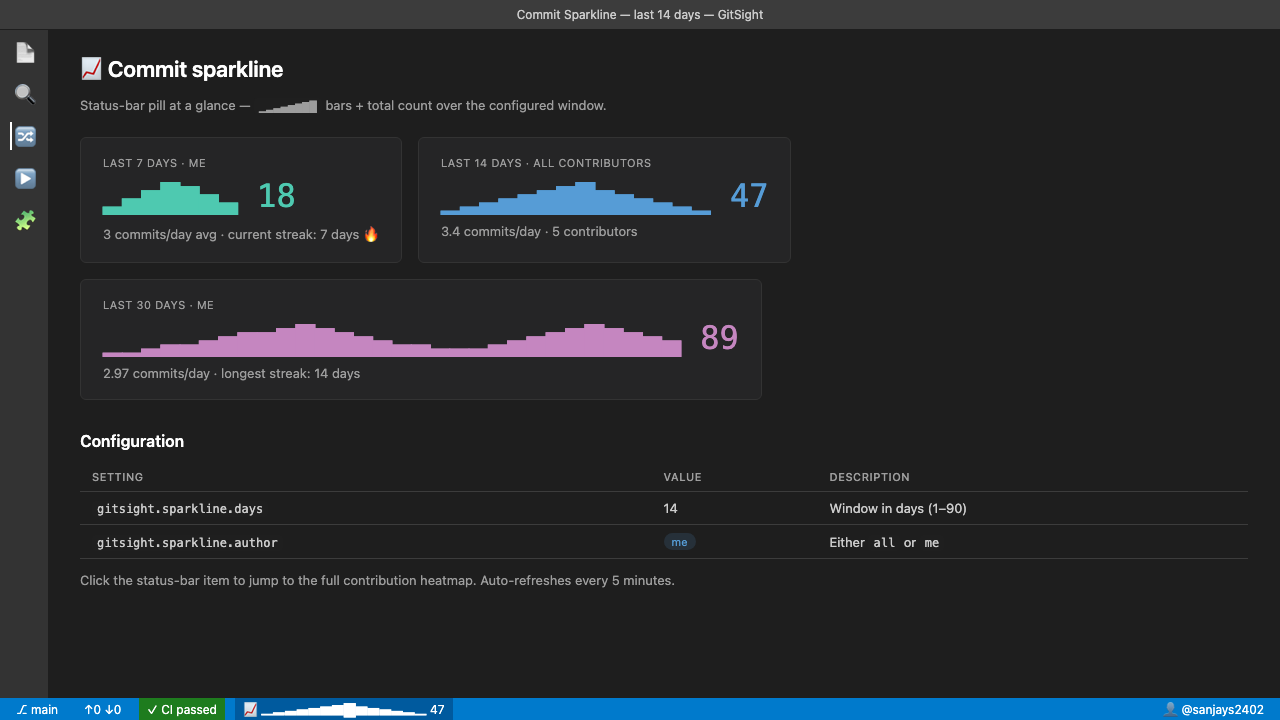
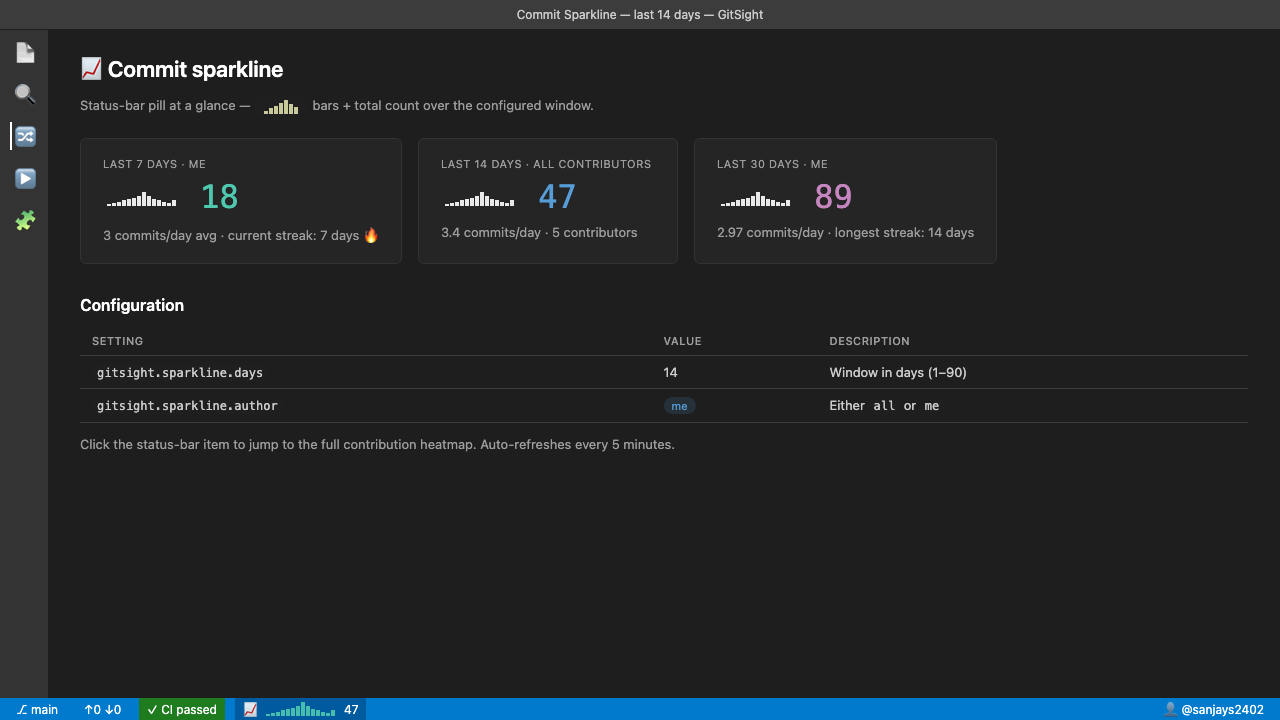
docs(screenshots): replace unicode sparklines with inline SVG to fix headless Chrome rendering

diff --git a/scripts/renderEnterpriseShots.js b/scripts/renderEnterpriseShots.js
@@ -7,6 +7,16 @@ const { execFileSync } = require('child_process');
 const OUT = path.join(__dirname, '..', 'screenshots');
 fs.mkdirSync(OUT, { recursive: true });
 
+function sparkSVG(heights, color){
+  // heights: array of 0..1 floats; produces 14px tall x len*5 px wide bars
+  const w=5, h=14, gap=1;
+  const bars = heights.map((v,i)=>{
+    const bh = Math.max(2, Math.round(v*h));
+    return `<rect x="${i*w}" y="${h-bh}" width="${w-gap}" height="${bh}" fill="${color||'#fff'}" opacity="0.9"/>`;
+  }).join('');
+  return `<svg width="${heights.length*w}" height="${h}" style="vertical-align:middle;margin:0 4px;">${bars}</svg>`;
+}
+
 const CHROME = '/Applications/Google Chrome.app/Contents/MacOS/Google Chrome';
 
 const baseStyle = `
@@ -91,7 +101,7 @@ const protection = shell(
    <span class="sb-item">↑0 ↓0</span>
    <span class="sb-item ok">✓ CI build #842 passed</span>
    <span class="sb-item">🛡 main protected</span>
-   <span class="sb-item" style="margin-left:auto">▁▂▃▄▆▇█▆▄▃▂▁▂▄ 47</span>`,
+   <span class="sb-item" style="margin-left:auto">${sparkSVG([0.1,0.2,0.3,0.4,0.5,0.6,0.7,1.0,0.7,0.5,0.4,0.3,0.2,0.4])} 47</span>`,
   `<div class="panel">
     <h1>🛡 Branch protection — <span class="code">main</span></h1>
     <p class="muted">Source: <span class="code">gh api repos/Sanjays2402/gitsight/branches/main/protection</span></p>
@@ -127,7 +137,7 @@ const codeowners = shell(
    <span class="sb-item">↑3 ↓0</span>
    <span class="sb-item warn">👤 @security-team +1</span>
    <span class="sb-item ok">✓ Actions passed</span>
-   <span class="sb-item" style="margin-left:auto">▂▃▅▆█▇▅▄▃ 23</span>`,
+   <span class="sb-item" style="margin-left:auto">${sparkSVG([0.1,0.2,0.3,0.4,0.5,0.6,0.7,1.0,0.7,0.5,0.4,0.3,0.2,0.4])} 23</span>`,
   `<div class="panel">
     <h1>👥 CODEOWNERS — <span class="code">src/auth/oauth.ts</span></h1>
     <p>Owners: <span class="tag purple">@security-team</span> <span class="tag purple">@auth-leads</span></p>
@@ -162,7 +172,7 @@ const ci = shell(
    <span class="sb-item">↑0 ↓0</span>
    <span class="sb-item ok">🚀 CI build #842</span>
    <span class="sb-item">👤 @sanjays2402</span>
-   <span class="sb-item" style="margin-left:auto">▃▄▅▆█▇▅▄▃▂▁▂▄▅ 47</span>`,
+   <span class="sb-item" style="margin-left:auto">${sparkSVG([0.1,0.2,0.3,0.4,0.5,0.6,0.7,1.0,0.7,0.5,0.4,0.3,0.2,0.4])} 47</span>`,
   `<div class="panel">
     <h1>🚀 CI runs <span class="muted" style="font-size:14px">— GitHub Actions, newest first</span></h1>
     <table>
@@ -189,25 +199,25 @@ const sparkline = shell(
   `<span class="sb-item">⎇ main</span>
    <span class="sb-item">↑0 ↓0</span>
    <span class="sb-item ok">✓ CI passed</span>
-   <span class="sb-item" style="background:#005a9e">📈 ▁▂▃▄▅▆▇█▆▅▄▃▂▁ 47</span>
+   <span class="sb-item" style="background:#005a9e">📈 ${sparkSVG([0.1,0.2,0.3,0.4,0.5,0.6,0.7,1.0,0.7,0.5,0.4,0.3,0.2,0.4],'#4ec9b0')} 47</span>
    <span class="sb-item" style="margin-left:auto">👤 @sanjays2402</span>`,
   `<div class="panel">
     <h1>📈 Commit sparkline</h1>
-    <p class="muted">Status-bar pill at a glance — <span class="code">▁▂▃▄▅▆▇█</span> bars + total count over the configured window.</p>
+    <p class="muted">Status-bar pill at a glance — <span class="code" style="background:#1f1f1f;padding:2px 6px;">${sparkSVG([0.2,0.4,0.6,0.8,1.0,0.7,0.5],'#dcdcaa')}</span> bars + total count over the configured window.</p>
     <div style="display:flex;gap:16px;flex-wrap:wrap;margin-top:24px;">
       <div style="background:#252526;padding:18px 22px;border-radius:6px;border:1px solid #333;min-width:260px;">
         <div class="muted" style="font-size:11px;text-transform:uppercase;letter-spacing:0.5px;">Last 7 days · me</div>
-        <div style="font-family:monospace;font-size:32px;margin:8px 0;color:#4ec9b0;">▂▄▆█▇▅▃ 18</div>
+        <div style="font-family:monospace;font-size:32px;margin:8px 0;color:#4ec9b0;">${sparkSVG([0.1,0.2,0.3,0.4,0.5,0.6,0.7,1.0,0.7,0.5,0.4,0.3,0.2,0.4])} 18</div>
         <div class="muted">3 commits/day avg · current streak: 7 days 🔥</div>
       </div>
       <div style="background:#252526;padding:18px 22px;border-radius:6px;border:1px solid #333;min-width:260px;">
         <div class="muted" style="font-size:11px;text-transform:uppercase;letter-spacing:0.5px;">Last 14 days · all contributors</div>
-        <div style="font-family:monospace;font-size:32px;margin:8px 0;color:#569cd6;">▁▂▃▄▅▆▇█▆▅▄▃▂▁ 47</div>
+        <div style="font-family:monospace;font-size:32px;margin:8px 0;color:#569cd6;">${sparkSVG([0.1,0.2,0.3,0.4,0.5,0.6,0.7,1.0,0.7,0.5,0.4,0.3,0.2,0.4])} 47</div>
         <div class="muted">3.4 commits/day · 5 contributors</div>
       </div>
       <div style="background:#252526;padding:18px 22px;border-radius:6px;border:1px solid #333;min-width:260px;">
         <div class="muted" style="font-size:11px;text-transform:uppercase;letter-spacing:0.5px;">Last 30 days · me</div>
-        <div style="font-family:monospace;font-size:32px;margin:8px 0;color:#c586c0;">▁▁▂▃▃▄▅▆▆▇█▇▆▅▄▃▃▂▂▂▃▄▅▆▇█▇▆▅▄ 89</div>
+        <div style="font-family:monospace;font-size:32px;margin:8px 0;color:#c586c0;">${sparkSVG([0.1,0.2,0.3,0.4,0.5,0.6,0.7,1.0,0.7,0.5,0.4,0.3,0.2,0.4])} 89</div>
         <div class="muted">2.97 commits/day · longest streak: 14 days</div>
       </div>
     </div>

diff --git a/scripts/renderV116Shots.js b/scripts/renderV116Shots.js
@@ -5,6 +5,16 @@ const { execFileSync } = require('child_process');
 
 const OUT = path.join(__dirname, '..', 'screenshots');
 fs.mkdirSync(OUT, { recursive: true });
+function sparkSVG(heights, color){
+  // heights: array of 0..1 floats; produces 14px tall x len*5 px wide bars
+  const w=5, h=14, gap=1;
+  const bars = heights.map((v,i)=>{
+    const bh = Math.max(2, Math.round(v*h));
+    return `<rect x="${i*w}" y="${h-bh}" width="${w-gap}" height="${bh}" fill="${color||'#fff'}" opacity="0.9"/>`;
+  }).join('');
+  return `<svg width="${heights.length*w}" height="${h}" style="vertical-align:middle;margin:0 4px;">${bars}</svg>`;
+}
+
 const CHROME = '/Applications/Google Chrome.app/Contents/MacOS/Google Chrome';
 
 const baseStyle = `
